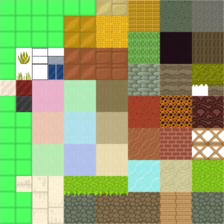
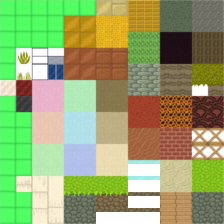
Finished rendering partial solids, implemented the physics for them (standing on them, being able to jump off them etc), fully implemented a 'double jump', and altered some code regarding characters being able to pass upwards through normal solids so they can no longer do so

Changed region(s): [[0.4062, 0.7188, 0.7188, 1.0]]

diff --git a/src/SMB/entities/Hero.java b/src/SMB/entities/Hero.java
@@ -11,14 +11,15 @@ import SMB.world.Tile;
 public class Hero extends Entity{
 	
 	private float speed = 0.3f;
+	private int jumpsRemaining = 1;
 
 	@Override
 	public void init() {
 		x = 2500;
-		y = 1900;
+		y = 2700;
 		width = 21*Tile.SCALE/1.5f;
 		height = 47*Tile.SCALE/1.5f;
-		image = Resources.getImage("player1");
+		image = Resources.getImage("p1Idle");
 		System.out.println("setting image");
 	}
 	
@@ -28,10 +29,14 @@ public class Hero extends Entity{
 		
 		
 		Input input = gc.getInput();
-		if (input.isKeyDown(Input.KEY_UP)&&isOnSolid()){
-			vPY -= 2f;
-		}else if (input.isKeyDown(Input.KEY_DOWN)){
-			//y+= speed*delta;
+		if (input.isKeyPressed(Input.KEY_UP)){
+			if(isOnSolid()||isOnPSolid()){
+					vPY = -2f;
+			}else if(jumpsRemaining==1){
+				vPY = -2f;
+				jumpsRemaining = 0;
+			}
+			System.out.println(jumpsRemaining);
 		}
 		
 		if (input.isKeyDown(Input.KEY_LEFT)){
@@ -42,9 +47,25 @@ public class Hero extends Entity{
 			vPX = 0;
 		}
 		
+		if(!input.isKeyDown(Input.KEY_DOWN)&&isOnPSolid()){
+			if(vPY>=0){
+			vPY = 0;
+			vTY = 0;
+			jumpsRemaining = 1;
+			}
+		}
+		if(isOnSolid()){
+			jumpsRemaining = 1;
+		}
+
+		
 		if(testLeft()) x += speed *delta;
 		if(testRight()) x -= speed *delta;
-		if(testUp()) y += speed *delta;
+		if(testUp()) {
+			y += Math.abs(vTY) *delta;
+			vTY = 0;
+			vPY = 0;
+		}
 		if(isWithin()) y -= (getEndY() % Tile.SIZE);
 	}
 }

diff --git a/src/SMB/entities/Entity.java b/src/SMB/entities/Entity.java
@@ -50,8 +50,10 @@ public abstract class Entity extends Hitbox{
 		}
 		
 		if(isOnSolid()){
-			vPY = 0;
-			vTY = 0;
+			if(vTY>=0){
+				vPY = 0;
+				vTY = 0;
+			}
 		}else{
 			vPY += 0.13f;
 		}
@@ -75,10 +77,13 @@ public abstract class Entity extends Hitbox{
 		return (World.hitTest(getCenterX(), getEndY()));
 	}
 	public boolean isWithin(){
-		return (World.hitTest(x, getEndY())||World.hitTest(getEndX(), getEndY()))||World.hitTest(getCenterX(), getEndY());
+		return (World.hitTest(x,getEndY()) || World.hitTest(getEndX(),getEndY())) || World.hitTest(getCenterX(),getEndY()) ||World.hitTestPSolid(x, getEndY())||World.hitTestPSolid(getEndX(), getEndY())||World.hitTestPSolid(getCenterX(), getEndY());
 	}
 	public boolean isOnSolid(){
 		return (World.hitTest(x, getEndY()+1)||World.hitTest(getEndX(), getEndY()+1))||World.hitTest(getCenterX(), getEndY()+1);
+	}
+	public boolean isOnPSolid(){
+		return (World.hitTestPSolid(x, getEndY()+1)||World.hitTestPSolid(getEndX(), getEndY()+1))||World.hitTestPSolid(getCenterX(), getEndY()+1);
 	}
 	
 }

diff --git a/src/SMB/world/World.java b/src/SMB/world/World.java
@@ -61,7 +61,7 @@ public class World {
 				System.out.println("fuck sam");
 			}else if(type.equals("background")){
 				background = parse((JSONArray)layer.get("data"));
-			}else if(type.equals("patialSolids")){
+			}else if(type.equals("partialSolids")){
 				partialSolids  = parse((JSONArray)layer.get("data"));
 			}
 		}
@@ -102,6 +102,9 @@ public class World {
 	public static boolean solidTile(int x, int y){
 		return (inBounds(x,y)&&solids[x][y]!=null);
 	}
+	public static boolean pSolidTile(int x, int y){
+		return (inBounds(x,y)&&partialSolids[x][y]!=null);
+	}
 	public static boolean hitTest(float x, float y){
 		int xPoint = (int) (x / Tile.SCALE) % Tile.SMALL_SIZE;
 		int yPoint = (int) (y / Tile.SCALE) % Tile.SMALL_SIZE;
@@ -119,7 +122,7 @@ public class World {
 		int xTile = (int) (x / Tile.SIZE);
 		int yTile = (int) (y / Tile.SIZE);
 		
-		if(solidTile(xTile, yTile)){
+		if(pSolidTile(xTile, yTile)){
 			return (partialSolids[xTile][yTile].getColor(xPoint, yPoint).a > 0);
 		}
 		return false;

diff --git a/src/SMB/states/GameState.java b/src/SMB/states/GameState.java
@@ -20,7 +20,7 @@ public class GameState extends BasicGameState {
 	
 	private ArrayList<Entity> entities;
 	private int xRender = 2400;
-	private int yRender = 1900;
+	private int yRender = 2600;
 
 	public void init(GameContainer gc, StateBasedGame s)
 			throws SlickException {
